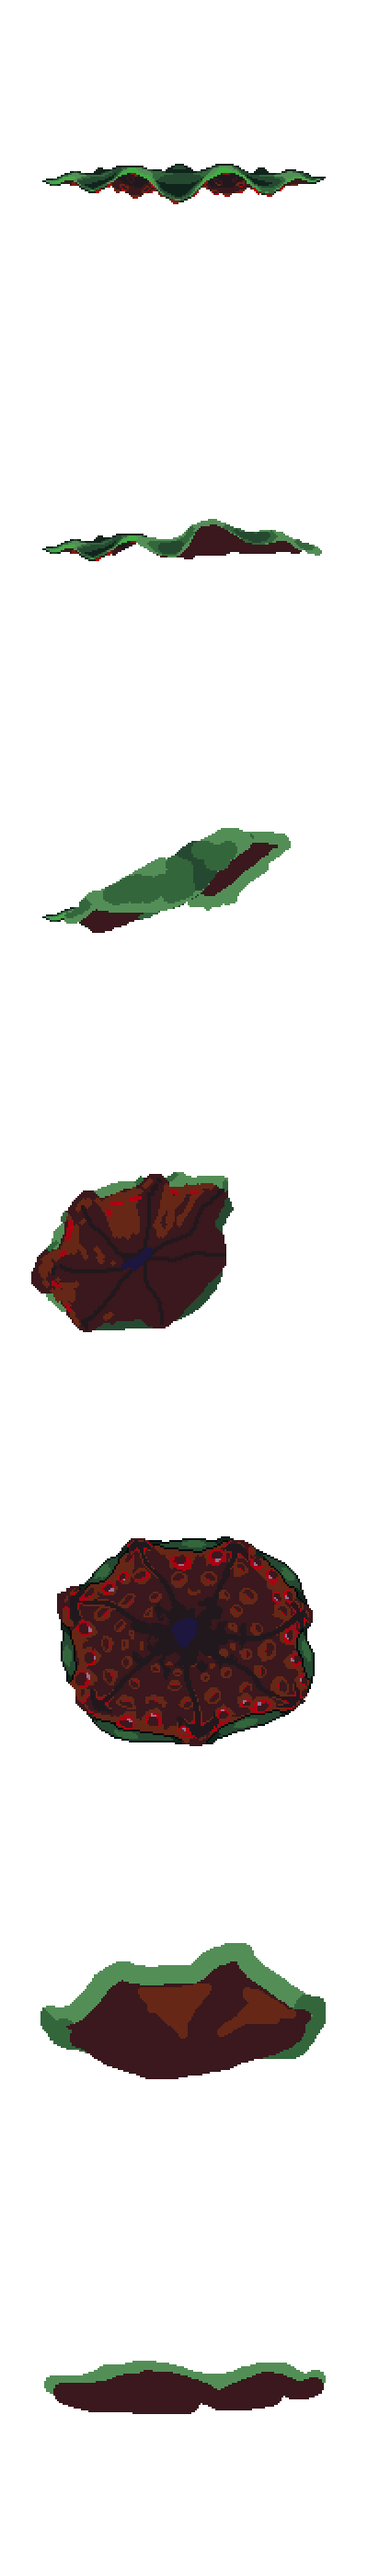
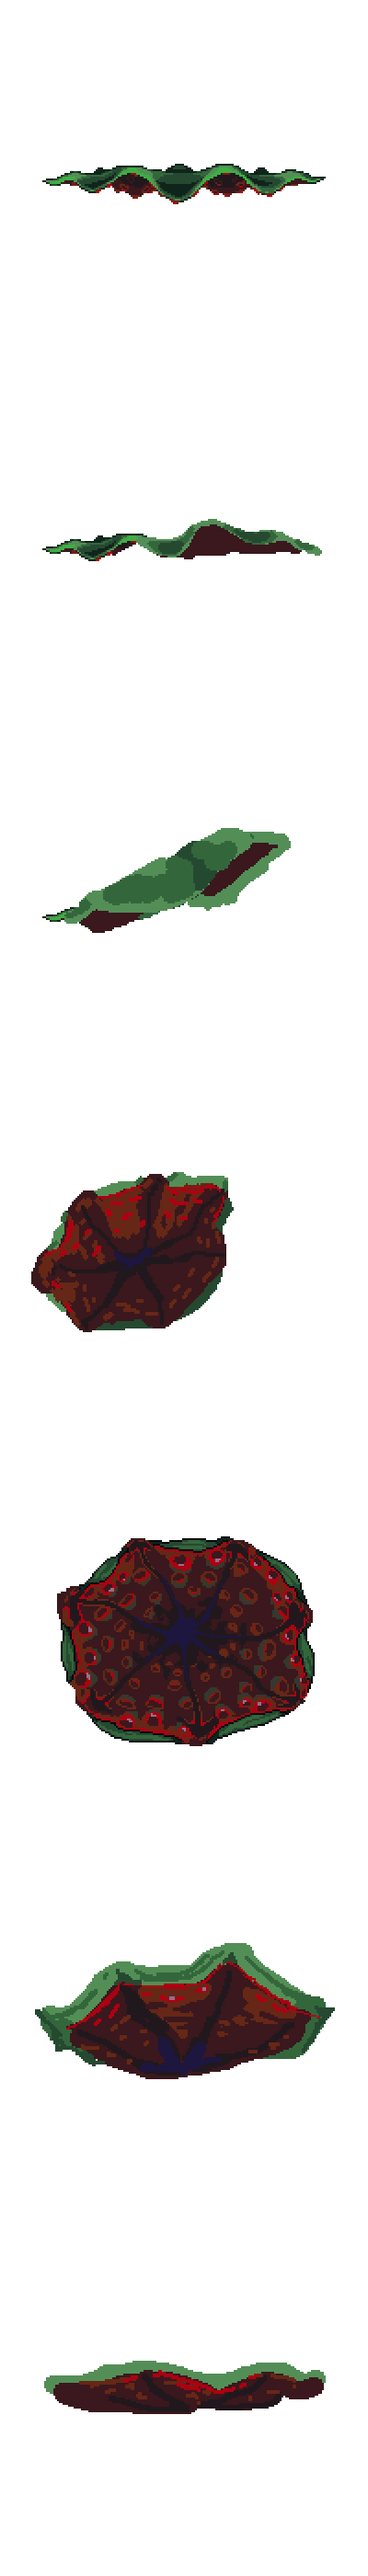
Adjust boss skills.

diff --git a/Sources/Modules/Yggdrasil/KelpCurtain/NPCs/VampireMat/VampireMat.cs b/Sources/Modules/Yggdrasil/KelpCurtain/NPCs/VampireMat/VampireMat.cs
@@ -17,6 +17,8 @@ public class VampireMat : ModNPC
 
 	public Rope BodyRope;
 
+	public MassSpringContainer EularSys = new MassSpringContainer();
+
 	public enum TextureState
 	{
 		Flat,
@@ -57,7 +59,9 @@ public class VampireMat : ModNPC
 	{
 		NPC.localAI[0] = 0;
 		NPC.TargetClosest();
-		//BodyRope = Rope.Create(NPC.Center + new Vector2(150, 0), NPC.Center - new Vector2(-150, 0), 20, 5, 5, 20, 5);
+		BodyRope = Rope.Create_Vine(NPC.Center, 20, 1, 1, 17.3f);
+		EularSys.AddMassSpringMesh(BodyRope);
+		GlobalRopeSystem.EulerContainers.Add(EularSys);
 		AICoroutine.StartCoroutine(new Coroutine(Dash_0()));
 	}
 
@@ -69,21 +73,43 @@ public class VampireMat : ModNPC
 	public override void AI()
 	{
 		AICoroutine.Update();
-		BodyRope.Masses[0].Position = NPC.Center + new Vector2(150, 0).RotatedBy(NPC.rotation);
+		BodyRope.Masses[0].Position = NPC.Center;
+		BodyRope.ApplyForce_VelocityDecay(0.2f);
 	}
 
 	public IEnumerator<ICoroutineInstruction> Dash_0()
 	{
 		yield return new WaitUntil(() => NPC.target >= 0);
-		Player player = Main.player[NPC.target];
-		int direction = NPC.Center.X > player.Center.X ? 1 : -1;
-
-		NPC.spriteDirection = direction;
-		Vector2 toTarget = (player.Center - NPC.Center).SafeNormalize(Vector2.Zero) * 11f;
-		float rot = toTarget.ToRotation();
-		NPC.velocity = toTarget;
-		for (int k = 0; k < 30; k++)
+		bool reachTarget = false;
+		float rot = NPC.rotation;
+		int reachTimer = 0;
+		for (int k = 0; k < 240; k++)
 		{
+			Vector2 headPos = NPC.Center;
+			Player player = Main.player[NPC.target];
+			int direction = NPC.Center.X > player.Center.X ? 1 : -1;
+
+			NPC.spriteDirection = direction;
+			Vector2 toTarget = player.Center - headPos;
+			if (!reachTarget && toTarget.Length() < 30)
+			{
+				reachTarget = true;
+				reachTimer = 0;
+			}
+			if (!reachTarget)
+			{
+				toTarget = toTarget.SafeNormalize(Vector2.Zero) * 11f;
+				rot = toTarget.ToRotation();
+				NPC.velocity = toTarget;
+			}
+			else
+			{
+				reachTimer++;
+			}
+			if (reachTimer >= 45)
+			{
+				reachTarget = false;
+			}
 			NPC.rotation = rot * 0.05f + NPC.rotation * 0.95f;
 			yield return new SkipThisFrame();
 		}
@@ -230,7 +256,8 @@ public class VampireMat : ModNPC
 				yield break;
 			}
 		}
-		switch (Main.rand.Next(3))
+		//Main.rand.Next(3)
+		switch (0)
 		{
 			case 0:
 				AICoroutine.StartCoroutine(new Coroutine(Dash_0()));
@@ -290,6 +317,7 @@ public class VampireMat : ModNPC
 
 	public override bool PreDraw(SpriteBatch spriteBatch, Vector2 screenPos, Color drawColor)
 	{
+		SpriteBatchState sBS = GraphicsUtils.GetState(Main.spriteBatch).Value;
 		var texture = ModContent.Request<Texture2D>(Texture).Value;
 		var drawPos = NPC.Center - Main.screenPosition;
 		if (NPCTextureState == (int)TextureState.TowardScreen)
@@ -297,25 +325,24 @@ public class VampireMat : ModNPC
 			texture = ModAsset.VampireMat_Attack.Value;
 			if (TowardScreenAndAttacking)
 			{
-				List<Vertex2D> bars = new List<Vertex2D>();
+				List<Vertex2D> boss_bottom_bars = new List<Vertex2D>();
 				for (int k = 0; k < 20; k++)
 				{
 					Vector2 offset0 = new Vector2(200, 0).RotatedBy(k / 20f * MathHelper.TwoPi);
 					Vector2 offset1 = new Vector2(200, 0).RotatedBy((k + 1) / 20f * MathHelper.TwoPi);
 					Vector2 pos0 = drawPos + offset0 * (1 + MathF.Sin(k / 4f * MathHelper.TwoPi + (float)Main.time * 0.09f) * 0.1f);
 					Vector2 pos1 = drawPos + offset1 * (1 + MathF.Sin((k + 1) / 4f * MathHelper.TwoPi + (float)Main.time * 0.09f) * 0.1f);
-					SpriteBatchUtils.AddVertexWithEnv_Light(bars, pos0, new Vector3((new Vector2(200, 1800) + offset0) / texture.Size(), 0), false);
-					SpriteBatchUtils.AddVertexWithEnv_Light(bars, pos1, new Vector3((new Vector2(200, 1800) + offset1) / texture.Size(), 0), false);
-					SpriteBatchUtils.AddVertexWithEnv_Light(bars, drawPos, new Vector3(new Vector2(200, 1800) / texture.Size(), 0), false);
+					SpriteBatchUtils.AddVertexWithEnv_Light(boss_bottom_bars, pos0, new Vector3((new Vector2(200, 1800) + offset0) / texture.Size(), 0), false);
+					SpriteBatchUtils.AddVertexWithEnv_Light(boss_bottom_bars, pos1, new Vector3((new Vector2(200, 1800) + offset1) / texture.Size(), 0), false);
+					SpriteBatchUtils.AddVertexWithEnv_Light(boss_bottom_bars, drawPos, new Vector3(new Vector2(200, 1800) / texture.Size(), 0), false);
 				}
-				if (bars.Count > 2)
+				if (boss_bottom_bars.Count > 2)
 				{
-					SpriteBatchState sBS = GraphicsUtils.GetState(Main.spriteBatch).Value;
 					Main.spriteBatch.End();
 					Main.spriteBatch.Begin(SpriteSortMode.Immediate, BlendState.AlphaBlend, SamplerState.PointClamp, DepthStencilState.Default, RasterizerState.CullNone, null, Main.GameViewMatrix.TransformationMatrix);
 
 					Main.graphics.GraphicsDevice.Textures[0] = texture;
-					Main.graphics.GraphicsDevice.DrawUserPrimitives(PrimitiveType.TriangleList, bars.ToArray(), 0, bars.Count / 3);
+					Main.graphics.GraphicsDevice.DrawUserPrimitives(PrimitiveType.TriangleList, boss_bottom_bars.ToArray(), 0, boss_bottom_bars.Count / 3);
 
 					Main.spriteBatch.End();
 					Main.spriteBatch.Begin(sBS);
@@ -327,19 +354,56 @@ public class VampireMat : ModNPC
 		{
 			texture = ModAsset.VampireMat_ReleaseProj.Value;
 		}
-		var frame = NPC.frame;
-		var rotation = NPC.rotation;
-		var spriteEffect = NPC.spriteDirection < 0 ? SpriteEffects.None : SpriteEffects.FlipVertically;
-		spriteBatch.Draw(texture, drawPos, frame, drawColor, rotation, frame.Size() / 2, 0.8f, spriteEffect, 0);
 
-		// if (BodyRope is not null)
-		// {
-		// Texture2D point = Commons.ModAsset.TileBlock.Value;
-		// foreach (var mass in BodyRope.Masses)
-		// {
-		// spriteBatch.Draw(point, mass.Position - Main.screenPosition, null, Color.White, 0, point.Size() * 0.5f, 0.5f, SpriteEffects.None, 0);
-		// }
-		// }
+		var frame = NPC.frame;
+		if (NPCTextureState == (int)TextureState.Flat)
+		{
+			spriteBatch.End();
+			spriteBatch.Begin(SpriteSortMode.Immediate, BlendState.AlphaBlend, SamplerState.PointWrap, DepthStencilState.Default, RasterizerState.CullNone, null, Main.GameViewMatrix.TransformationMatrix);
+			if (BodyRope is null)
+			{
+				spriteBatch.End();
+				spriteBatch.Begin(sBS);
+				return false;
+			}
+			List<Vertex2D> bars = new List<Vertex2D>();
+			for (int k = 1; k < BodyRope.Masses.Length; k++)
+			{
+				Vector2 dir = BodyRope.Masses[k].Position - BodyRope.Masses[k - 1].Position;
+				dir = dir.SafeNormalize(Vector2.Zero);
+				Vector2 normal = new Vector2(-dir.Y, dir.X) * 16;
+				Vector2 ropePos = BodyRope.Masses[k - 1].Position - Main.screenPosition;
+				float value = k / (float)BodyRope.Masses.Length;
+				if (NPC.velocity.X > 0)
+				{
+					AddVertex(bars, ropePos + normal, new Vector3(value, (frame.Y + frame.Height * 0.25f) / texture.Height, 0));
+					AddVertex(bars, ropePos - normal, new Vector3(value, (frame.Y + frame.Height * 0.75f) / texture.Height, 0));
+				}
+				else
+				{
+					AddVertex(bars, ropePos + normal, new Vector3(value, (frame.Y + frame.Height * 0.75f) / texture.Height, 0));
+					AddVertex(bars, ropePos - normal, new Vector3(value, (frame.Y + frame.Height * 0.25f) / texture.Height, 0));
+				}
+			}
+			if (bars.Count > 0)
+			{
+				Main.graphics.graphicsDevice.Textures[0] = texture;
+				Main.graphics.graphicsDevice.DrawUserPrimitives(PrimitiveType.TriangleStrip, bars.ToArray(), 0, bars.Count - 2);
+			}
+		}
+		else
+		{
+			var rotation = NPC.rotation;
+			var spriteEffect = NPC.spriteDirection < 0 ? SpriteEffects.None : SpriteEffects.FlipVertically;
+			spriteBatch.Draw(texture, drawPos, frame, drawColor, rotation, frame.Size() / 2, 0.8f, spriteEffect, 0);
+		}
+		spriteBatch.End();
+		spriteBatch.Begin(sBS);
 		return false;
+	}
+
+	private void AddVertex(List<Vertex2D> bars, Vector2 screenPos, Vector3 coord)
+	{
+		bars.Add(screenPos, Lighting.GetColor((screenPos + Main.screenPosition).ToTileCoordinates()), coord);
 	}
 }

diff --git a/Sources/Modules/Example/Items/ExampleRopeItem.cs b/Sources/Modules/Example/Items/ExampleRopeItem.cs
@@ -18,7 +18,7 @@ public class ExampleRopeItem : ModItem
 			AddRope();
 		}
 		ItemRope.Masses[0].Position = Main.MouseWorld;
-		ItemRope.ApplyForce_Gravity();
+		//ItemRope.ApplyForce_Gravity();
 		ItemRope.ApplyForce_VelocityDecay(0.2f);
 
 		// Experimental codes.
@@ -82,7 +82,7 @@ public class ExampleRopeItem : ModItem
 
 	public void AddRope()
 	{
-		ItemRope = Rope.Create_Vine(Main.MouseWorld, 10, 2, 1);
+		ItemRope = Rope.Create_Vine(Main.MouseWorld, 30, 2, 1, 15);
 
 		// Rope.Create_Fixed_StartPos(Main.MouseWorld, 20, 5, 0.5f, 20);
 		EularSys.AddMassSpringMesh(ItemRope);
